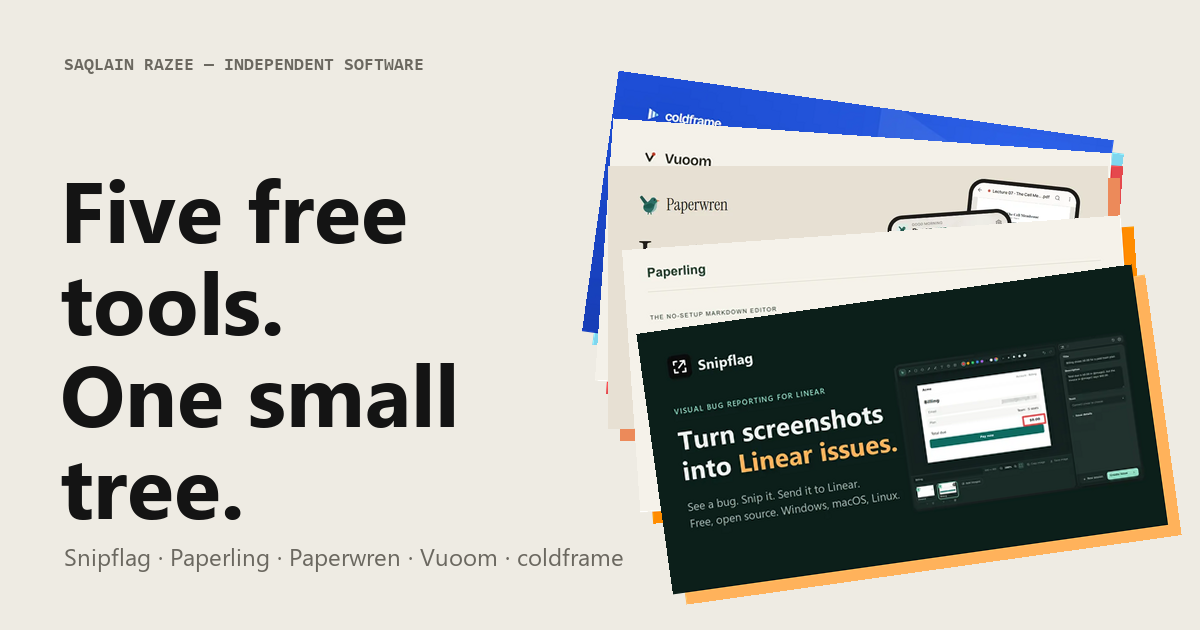
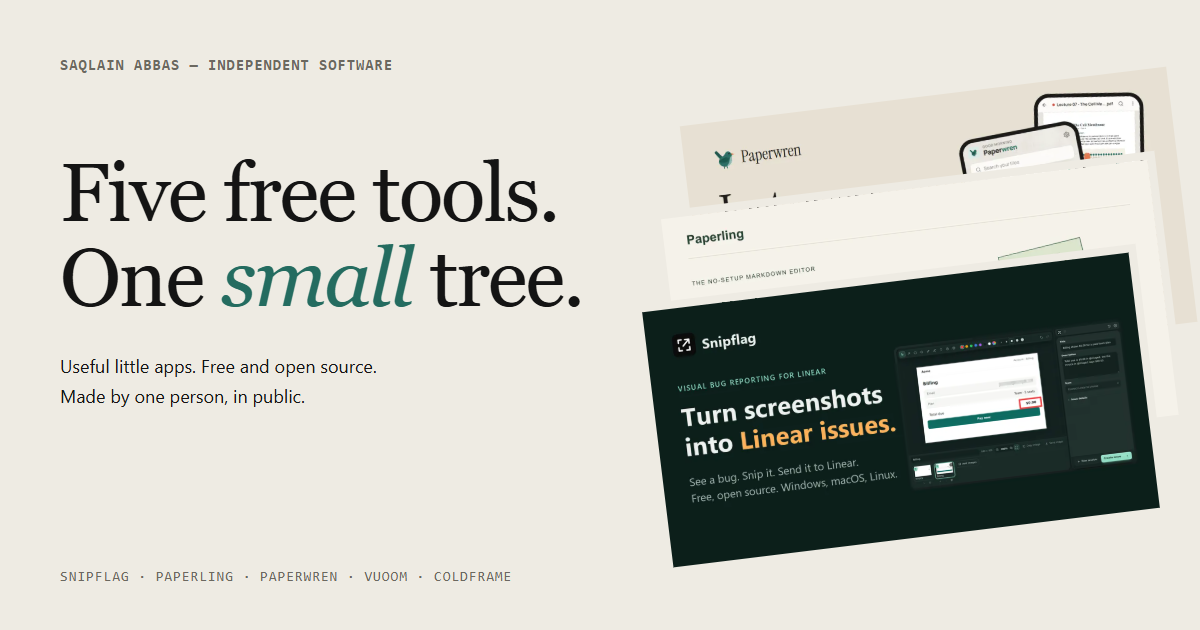
Add meadow friends, richer foliage and correct the owner name

diff --git a/index.html b/index.html
@@ -3,17 +3,17 @@
 <head>
 <meta charset="utf-8">
 <meta name="viewport" content="width=device-width, initial-scale=1, viewport-fit=cover">
-<title>Saqlain Razee: five free, open-source tools</title>
-<meta name="description" content="Snipflag, Paperling, Paperwren, Vuoom and coldframe: free, open-source apps and tools by Saqlain Razee. Plus a small tree of birds.">
+<title>Saqlain Abbas: five free, open-source tools</title>
+<meta name="description" content="Snipflag, Paperling, Paperwren, Vuoom and coldframe: free, open-source apps and tools by Saqlain Abbas. Plus a small tree of birds.">
 <link rel="canonical" href="https://razee4315.github.io/">
 <meta name="robots" content="index, follow, max-image-preview:large">
 <meta name="theme-color" content="#EEEBE3">
 <meta property="og:type" content="website">
-<meta property="og:site_name" content="Saqlain Razee">
+<meta property="og:site_name" content="Saqlain Abbas">
 <meta property="og:title" content="Five free tools. One small tree.">
-<meta property="og:description" content="Snipflag, Paperling, Paperwren, Vuoom and coldframe: free, open-source tools by Saqlain Razee.">
+<meta property="og:description" content="Snipflag, Paperling, Paperwren, Vuoom and coldframe: free, open-source tools by Saqlain Abbas.">
 <meta property="og:url" content="https://razee4315.github.io/">
-<meta property="og:image" content="https://razee4315.github.io/og.png">
+<meta property="og:image" content="https://razee4315.github.io/og.png?v=27">
 <meta property="og:image:width" content="1200">
 <meta property="og:image:height" content="630">
 <meta name="twitter:card" content="summary_large_image">
@@ -22,7 +22,7 @@
 <link rel="preconnect" href="https://fonts.gstatic.com" crossorigin>
 <link rel="preconnect" href="https://cdn.jsdelivr.net" crossorigin>
 <link rel="stylesheet" href="https://fonts.googleapis.com/css2?family=Instrument+Serif:ital@0;1&family=Bricolage+Grotesque:opsz,wght@12..96,400..800&family=JetBrains+Mono:wght@500&display=swap">
-<link rel="stylesheet" href="assets/site.css?v=25">
+<link rel="stylesheet" href="assets/site.css?v=27">
 <script>
   (function () {
     var r = document.documentElement;
@@ -34,9 +34,9 @@
 {
   "@context": "https://schema.org",
   "@graph": [
-    { "@type": "Person", "@id": "https://razee4315.github.io/#me", "name": "Saqlain Razee", "url": "https://razee4315.github.io/",
+    { "@type": "Person", "@id": "https://razee4315.github.io/#me", "name": "Saqlain Abbas", "url": "https://razee4315.github.io/",
       "sameAs": ["https://github.com/Razee4315", "https://www.linkedin.com/in/saqlainrazee/"] },
-    { "@type": "ItemList", "name": "Projects by Saqlain Razee", "itemListElement": [
+    { "@type": "ItemList", "name": "Projects by Saqlain Abbas", "itemListElement": [
       { "@type": "ListItem", "position": 1, "url": "https://razee4315.github.io/snipflag/", "name": "Snipflag" },
       { "@type": "ListItem", "position": 2, "url": "https://razee4315.github.io/Paperling/", "name": "Paperling" },
       { "@type": "ListItem", "position": 3, "url": "https://razee4315.github.io/Paperwren/", "name": "Paperwren" },
@@ -51,9 +51,9 @@
 <a class="skip" href="#catalogue">Skip to the tools</a>
 
 <header class="nav" data-nav>
-  <a class="nav-brand" href="#top" aria-label="Saqlain Razee, back to top">
+  <a class="nav-brand" href="#top" aria-label="Saqlain Abbas, back to top">
     <svg viewBox="0 0 64 64" aria-hidden="true"><path d="M27 27.5 12.6 9.6Q10.8 7.4 8.6 8.8L6.6 10.4Q4.6 12 6 14.2L19.5 33.5Z" fill="#174A44"/><path d="M29 53 27.5 59M35 53l1 6" stroke="#174A44" stroke-width="2.4" stroke-linecap="round"/><path d="M50.5 19C48 12.5 39 11 35 17 32.5 21 29 24.5 24 26.5 15.5 30 13 38 15.5 44.5 18.5 51.5 25.5 55 33 54.5 44 54 51.5 45.5 51.5 34 51.5 29.5 52.5 26 53.5 24Z" fill="#2B6E66"/><path d="M52.6 25C51.6 28 51.5 31 51.5 34 51.5 45.5 44 53.5 33 54.5 39.5 50.5 43.5 44.5 44.8 37.5 46 31.5 48.5 27 52.6 25Z" fill="#8FBCB3"/><path d="M45 34C41 27.5 29 27 21 33.5L14.5 38C23 45.5 38 45.5 45 34Z" fill="#174A44"/><path d="M51.4 19Q56 20.2 59.5 22.6 55.5 23.6 52.4 24.4Z" fill="#EC8A5A"/><circle cx="45" cy="19.5" r="2.1" fill="#0E2B27"/></svg>
-    <span>Saqlain Razee</span>
+    <span>Saqlain Abbas</span>
   </a>
   <nav class="nav-links mono" aria-label="Projects">
     <a href="#snipflag" data-nav-link>Snipflag</a>
@@ -72,7 +72,7 @@
   <section class="hero" id="top" aria-labelledby="hero-title">
     <div class="hero-type">
       <div class="hero-heading">
-      <p class="eyebrow mono" data-hero-fade>Saqlain Razee · independent software</p>
+      <p class="eyebrow mono" data-hero-fade>Saqlain Abbas · independent software</p>
       <h1 id="hero-title" class="h1" data-split data-perch="text">Five free tools.<br>One <em>small</em> tree.</h1>
       </div>
       <div class="hero-details">
@@ -86,10 +86,22 @@
 
     <figure class="scene" data-scene>
       <div class="scene-art">
-        <svg class="scene-svg" viewBox="0 80 1600 826" preserveAspectRatio="xMidYMax meet" role="img" aria-labelledby="scene-title">
+        <svg class="scene-svg" viewBox="0 80 1600 826" preserveAspectRatio="xMidYMax meet" role="button" tabindex="0" aria-label="Shake the tree to release falling leaves" data-no-bird>
           <title id="scene-title">A small tree with a hanging birdhouse. Birds you invite fly around the page.</title>
           <g data-world></g>
         </svg>
+        <button class="grass-animal rabbit" type="button" data-rabbit data-no-bird aria-label="Say hello to the rabbit and watch it hop">
+          <svg viewBox="0 0 180 110" aria-hidden="true"><g class="rabbit-hop"><g class="rabbit-body">
+            <circle cx="43" cy="79" r="10" fill="#E8E0D1"/><ellipse cx="75" cy="81" rx="31" ry="22" fill="#B3A18A"/>
+            <path d="M60 91Q67 66 82 78Q96 96 81 101H58" fill="#97836C"/><ellipse cx="75" cy="100" rx="17" ry="4" fill="#C7B7A0"/>
+            <path d="M97 77Q111 80 108 99H98L92 84" fill="#C7B7A0"/>
+            <g class="rabbit-ears"><path d="M101 56Q80 13 90 11Q104 12 111 55" fill="#B3A18A"/><path d="M108 55Q110 9 120 13Q128 23 117 58" fill="#C7B7A0"/><path d="M100 43Q90 19 93 19L106 47M114 46Q114 20 119 21L117 48" stroke="#CA9D95" stroke-width="4" fill="none" stroke-linecap="round"/></g>
+            <path d="M93 57Q113 44 124 61L133 72Q134 84 116 84Q93 85 91 72Z" fill="#C7B7A0"/>
+            <ellipse cx="120" cy="76" rx="12" ry="7" fill="#E8E0D1"/><circle cx="116" cy="63" r="3.1" fill="#30291F"/><circle cx="117" cy="62" r=".9" fill="#FFF"/>
+            <path d="M129 72l5 2-4 3Z" fill="#A9766C"/><path d="M127 78l-2 2m-1-5 12-2m-12 6 12 3" stroke="#796857" stroke-width=".8" fill="none"/>
+          </g></g></svg>
+        </button>
+        <button class="grass-animal chicks" type="button" data-chicks data-no-bird aria-label="Bring the black and yellow chicks together to share hearts"><svg viewBox="0 0 220 100" aria-hidden="true"><g class="chick-walk chick-black"><g transform="translate(40 68)"><path d="M-9 18l-2 8m20-8 2 8m-12 0h-5m17 0h5" fill="none" stroke="#BA8040" stroke-width="2" stroke-linecap="round"/><path d="M-15 3Q-23 3-24-2l10 2" fill="var(--chick-wing)"/><ellipse cy="7" rx="19" ry="17" fill="var(--chick-body)"/><circle cx="10" cy="-8" r="14" fill="var(--chick-body)"/><path d="M-12 3Q2-5 6 8Q-4 18-12 3" fill="var(--chick-wing)"/><path d="M22-8l8 4-8 3Z" fill="#D88C41"/><circle cx="15" cy="-11" r="2.2" fill="var(--chick-eye)"/><circle cx="15.6" cy="-11.7" r=".7" fill="#FFF"/><path d="M3-21l3-5 2 5 4-3 1 4" stroke="var(--chick-wing)" stroke-width="2" fill="none" stroke-linecap="round"/></g></g><g class="chick-walk chick-yellow"><g transform="translate(180 68) scale(-1 1)"><path d="M-9 18l-2 8m20-8 2 8m-12 0h-5m17 0h5" fill="none" stroke="#BA8040" stroke-width="2" stroke-linecap="round"/><path d="M-15 3Q-23 3-24-2l10 2" fill="var(--chick-wing)"/><ellipse cy="7" rx="19" ry="17" fill="var(--chick-body)"/><circle cx="10" cy="-8" r="14" fill="var(--chick-body)"/><path d="M-12 3Q2-5 6 8Q-4 18-12 3" fill="var(--chick-wing)"/><path d="M22-8l8 4-8 3Z" fill="#D88C41"/><circle cx="15" cy="-11" r="2.2" fill="var(--chick-eye)"/><circle cx="15.6" cy="-11.7" r=".7" fill="#FFF"/><path d="M3-21l3-5 2 5 4-3 1 4" stroke="var(--chick-wing)" stroke-width="2" fill="none" stroke-linecap="round"/></g></g><g class="chick-hearts" fill="#BB6A60"><path d="M100 35C83 25 91 16 100 23C109 16 117 25 100 35Z"/><path d="M123 22C111 15 117 8 123 13C129 8 135 15 123 22Z"/></g></svg></button>
         <svg class="meadow" viewBox="0 0 1600 80" preserveAspectRatio="none" aria-hidden="true"><g data-ground></g></svg>
         <div class="drift" aria-hidden="true"><i></i><i></i><i></i><i></i></div>
       </div>
@@ -173,17 +185,17 @@
     <div class="roost-intro"><p class="mono label">The evening roost</p><h2>A place to land.</h2><p>Ten little nests. A hello from every bird that comes home.</p></div>
     <div class="roost" aria-label="Bird nests spell HELLO RAZEE as birds land"><div class="roost-cell"><span class="roost-letter" aria-hidden="true">H</span><div class="nest" data-nest="0"><svg viewBox="0 0 120 44" aria-hidden="true"><path d="M8 12Q60 2 112 12Q106 38 60 40Q14 38 8 12Z" fill="#A58B66"/><ellipse cx="60" cy="12" rx="49" ry="9" fill="#514537"/><g fill="none" stroke="#D0B58D" stroke-width="2" stroke-linecap="round"><path d="M12 17Q62 33 106 16M18 25Q55 39 100 24M28 33Q60 42 87 33M9 12l24 19m-10-20 28 26m-7-24 25 24m15-23L59 38m38-25L77 35m32-20L92 29"/></g><path d="M7 10l17 4m76-2 14-5M18 32l16 3" stroke="#796348" stroke-width="2" fill="none"/></svg></div></div><div class="roost-cell"><span class="roost-letter" aria-hidden="true">E</span><div class="nest" data-nest="1"><svg viewBox="0 0 120 44" aria-hidden="true"><path d="M8 12Q60 2 112 12Q106 38 60 40Q14 38 8 12Z" fill="#A58B66"/><ellipse cx="60" cy="12" rx="49" ry="9" fill="#514537"/><g fill="none" stroke="#D0B58D" stroke-width="2" stroke-linecap="round"><path d="M12 17Q62 33 106 16M18 25Q55 39 100 24M28 33Q60 42 87 33M9 12l24 19m-10-20 28 26m-7-24 25 24m15-23L59 38m38-25L77 35m32-20L92 29"/></g><path d="M7 10l17 4m76-2 14-5M18 32l16 3" stroke="#796348" stroke-width="2" fill="none"/></svg></div></div><div class="roost-cell"><span class="roost-letter" aria-hidden="true">L</span><div class="nest" data-nest="2"><svg viewBox="0 0 120 44" aria-hidden="true"><path d="M8 12Q60 2 112 12Q106 38 60 40Q14 38 8 12Z" fill="#A58B66"/><ellipse cx="60" cy="12" rx="49" ry="9" fill="#514537"/><g fill="none" stroke="#D0B58D" stroke-width="2" stroke-linecap="round"><path d="M12 17Q62 33 106 16M18 25Q55 39 100 24M28 33Q60 42 87 33M9 12l24 19m-10-20 28 26m-7-24 25 24m15-23L59 38m38-25L77 35m32-20L92 29"/></g><path d="M7 10l17 4m76-2 14-5M18 32l16 3" stroke="#796348" stroke-width="2" fill="none"/></svg></div></div><div class="roost-cell"><span class="roost-letter" aria-hidden="true">L</span><div class="nest" data-nest="3"><svg viewBox="0 0 120 44" aria-hidden="true"><path d="M8 12Q60 2 112 12Q106 38 60 40Q14 38 8 12Z" fill="#A58B66"/><ellipse cx="60" cy="12" rx="49" ry="9" fill="#514537"/><g fill="none" stroke="#D0B58D" stroke-width="2" stroke-linecap="round"><path d="M12 17Q62 33 106 16M18 25Q55 39 100 24M28 33Q60 42 87 33M9 12l24 19m-10-20 28 26m-7-24 25 24m15-23L59 38m38-25L77 35m32-20L92 29"/></g><path d="M7 10l17 4m76-2 14-5M18 32l16 3" stroke="#796348" stroke-width="2" fill="none"/></svg></div></div><div class="roost-cell"><span class="roost-letter" aria-hidden="true">O</span><div class="nest" data-nest="4"><svg viewBox="0 0 120 44" aria-hidden="true"><path d="M8 12Q60 2 112 12Q106 38 60 40Q14 38 8 12Z" fill="#A58B66"/><ellipse cx="60" cy="12" rx="49" ry="9" fill="#514537"/><g fill="none" stroke="#D0B58D" stroke-width="2" stroke-linecap="round"><path d="M12 17Q62 33 106 16M18 25Q55 39 100 24M28 33Q60 42 87 33M9 12l24 19m-10-20 28 26m-7-24 25 24m15-23L59 38m38-25L77 35m32-20L92 29"/></g><path d="M7 10l17 4m76-2 14-5M18 32l16 3" stroke="#796348" stroke-width="2" fill="none"/></svg></div></div><div class="roost-cell"><span class="roost-letter" aria-hidden="true">R</span><div class="nest" data-nest="5"><svg viewBox="0 0 120 44" aria-hidden="true"><path d="M8 12Q60 2 112 12Q106 38 60 40Q14 38 8 12Z" fill="#A58B66"/><ellipse cx="60" cy="12" rx="49" ry="9" fill="#514537"/><g fill="none" stroke="#D0B58D" stroke-width="2" stroke-linecap="round"><path d="M12 17Q62 33 106 16M18 25Q55 39 100 24M28 33Q60 42 87 33M9 12l24 19m-10-20 28 26m-7-24 25 24m15-23L59 38m38-25L77 35m32-20L92 29"/></g><path d="M7 10l17 4m76-2 14-5M18 32l16 3" stroke="#796348" stroke-width="2" fill="none"/></svg></div></div><div class="roost-cell"><span class="roost-letter" aria-hidden="true">A</span><div class="nest" data-nest="6"><svg viewBox="0 0 120 44" aria-hidden="true"><path d="M8 12Q60 2 112 12Q106 38 60 40Q14 38 8 12Z" fill="#A58B66"/><ellipse cx="60" cy="12" rx="49" ry="9" fill="#514537"/><g fill="none" stroke="#D0B58D" stroke-width="2" stroke-linecap="round"><path d="M12 17Q62 33 106 16M18 25Q55 39 100 24M28 33Q60 42 87 33M9 12l24 19m-10-20 28 26m-7-24 25 24m15-23L59 38m38-25L77 35m32-20L92 29"/></g><path d="M7 10l17 4m76-2 14-5M18 32l16 3" stroke="#796348" stroke-width="2" fill="none"/></svg></div></div><div class="roost-cell"><span class="roost-letter" aria-hidden="true">Z</span><div class="nest" data-nest="7"><svg viewBox="0 0 120 44" aria-hidden="true"><path d="M8 12Q60 2 112 12Q106 38 60 40Q14 38 8 12Z" fill="#A58B66"/><ellipse cx="60" cy="12" rx="49" ry="9" fill="#514537"/><g fill="none" stroke="#D0B58D" stroke-width="2" stroke-linecap="round"><path d="M12 17Q62 33 106 16M18 25Q55 39 100 24M28 33Q60 42 87 33M9 12l24 19m-10-20 28 26m-7-24 25 24m15-23L59 38m38-25L77 35m32-20L92 29"/></g><path d="M7 10l17 4m76-2 14-5M18 32l16 3" stroke="#796348" stroke-width="2" fill="none"/></svg></div></div><div class="roost-cell"><span class="roost-letter" aria-hidden="true">E</span><div class="nest" data-nest="8"><svg viewBox="0 0 120 44" aria-hidden="true"><path d="M8 12Q60 2 112 12Q106 38 60 40Q14 38 8 12Z" fill="#A58B66"/><ellipse cx="60" cy="12" rx="49" ry="9" fill="#514537"/><g fill="none" stroke="#D0B58D" stroke-width="2" stroke-linecap="round"><path d="M12 17Q62 33 106 16M18 25Q55 39 100 24M28 33Q60 42 87 33M9 12l24 19m-10-20 28 26m-7-24 25 24m15-23L59 38m38-25L77 35m32-20L92 29"/></g><path d="M7 10l17 4m76-2 14-5M18 32l16 3" stroke="#796348" stroke-width="2" fill="none"/></svg></div></div><div class="roost-cell"><span class="roost-letter" aria-hidden="true">E</span><div class="nest" data-nest="9"><svg viewBox="0 0 120 44" aria-hidden="true"><path d="M8 12Q60 2 112 12Q106 38 60 40Q14 38 8 12Z" fill="#A58B66"/><ellipse cx="60" cy="12" rx="49" ry="9" fill="#514537"/><g fill="none" stroke="#D0B58D" stroke-width="2" stroke-linecap="round"><path d="M12 17Q62 33 106 16M18 25Q55 39 100 24M28 33Q60 42 87 33M9 12l24 19m-10-20 28 26m-7-24 25 24m15-23L59 38m38-25L77 35m32-20L92 29"/></g><path d="M7 10l17 4m76-2 14-5M18 32l16 3" stroke="#796348" stroke-width="2" fill="none"/></svg></div></div></div>
     <div class="roost-actions"><p class="mono label" data-roost-status aria-live="polite">The nests are waiting.</p><button class="btn btn-ghost" type="button" data-roost-invite>Invite a bird</button></div>
-    <div class="foot-bottom"><div><a class="foot-name" href="#top">Saqlain Razee</a><p class="label">Small tools. Built in public.</p></div><nav class="foot-links" aria-label="Elsewhere"><a href="https://github.com/Razee4315">GitHub &nearr;</a><a href="https://www.linkedin.com/in/saqlainrazee/">LinkedIn &nearr;</a><a href="#top">Back to the tree &uarr;</a></nav></div>
+    <div class="foot-bottom"><div><a class="foot-name" href="#top">Saqlain Abbas</a><p class="label">Small tools. Built in public.</p></div><nav class="foot-links" aria-label="Elsewhere"><a href="https://github.com/Razee4315">GitHub &nearr;</a><a href="https://www.linkedin.com/in/saqlainrazee/">LinkedIn &nearr;</a><a href="#top">Back to the tree &uarr;</a></nav></div>
   </div>
 </footer>
 
 <div class="sky" data-sky aria-hidden="true"></div>
 
-<script src="assets/birds.js?v=25" defer></script>
+<script src="assets/birds.js?v=27" defer></script>
 <script src="https://cdn.jsdelivr.net/npm/gsap@3.13.0/dist/gsap.min.js" defer></script>
 <script src="https://cdn.jsdelivr.net/npm/gsap@3.13.0/dist/ScrollTrigger.min.js" defer></script>
 <script src="https://cdn.jsdelivr.net/npm/gsap@3.13.0/dist/SplitText.min.js" defer></script>
 <script src="https://cdn.jsdelivr.net/npm/lenis@1.3.11/dist/lenis.min.js" defer></script>
-<script src="assets/site.js?v=25" defer></script>
+<script src="assets/site.js?v=27" defer></script>
 </body>
 </html>

diff --git a/assets/birds.js b/assets/birds.js
@@ -137,6 +137,16 @@
     foliageFor(D);
     cluster(612, 730, 190, 10, 160);
 
+    // Interior shoots fill the canopy along the limbs, not just at their tips.
+    [L1, R1, L2, R2, T].forEach(function (limb, li) {
+      foliageFor(limb);
+      [.18, .31, .46, .62, .78, .9].forEach(function (t, i) {
+        var point = bz(limb.spec.p, t), tangent = bzd(limb.spec.p, t);
+        var heading = Math.atan2(tangent.y, tangent.x) * 180 / Math.PI;
+        cluster(point.x, point.y, heading + (i % 2 ? 62 : -62), i % 3 ? 6 : 12, 90);
+      });
+    });
+
     foliage.forEach(function (f) {
       var g = el('g', { 'data-foliage': '' }, f.parent);
       el('path', { d: f.stems, fill: 'none', stroke: C.barkLight, 'stroke-width': 1.4, 'stroke-linecap': 'round' }, g);
@@ -157,9 +167,37 @@
       el('path', { d: 'M0 0C8 -9 24 -10 36 0C24 10 8 9 0 0Z', fill: source.color,
         transform: 'rotate(' + f1(source.angle) + ') scale(' + f1(source.scale) + ')' }, falling);
     }
+    var scene = svg.parentNode;
+    function sceneActive(active) { svg.classList.toggle('tree-active', active); scene.classList.toggle('scene-active', active); }
     if ('IntersectionObserver' in window) {
-      new IntersectionObserver(function (entries) { svg.classList.toggle('tree-active', entries[0].isIntersecting); }).observe(svg);
-    } else svg.classList.add('tree-active');
+      new IntersectionObserver(function (entries) { sceneActive(entries[0].isIntersecting); }).observe(svg);
+    } else sceneActive(true);
+    // Reuse a bounded set of leaves for click showers. No nodes are added per click.
+    var shower = [];
+    for (var si = 0; si < 12; si++) {
+      var origin = el('g', { 'data-leaf-burst': '' }, world), fall = el('g', { opacity: 0 }, origin);
+      var shape = el('path', { d: 'M0 0C8 -9 24 -10 36 0C24 10 8 9 0 0Z' }, fall);
+      shower.push({ origin: origin, fall: fall, shape: shape, animation: null });
+    }
+    function shakeLeaves() {
+      if (reduce) return;
+      shower.forEach(function (part, i) {
+        if (part.animation) part.animation.cancel();
+        var source = leafSources[Math.floor(rng() * leafSources.length)], drop = 920 - source.y, drift = (rng() - .5) * 180;
+        part.origin.setAttribute('transform', 'translate(' + f1(source.x) + ' ' + f1(source.y) + ')');
+        part.shape.setAttribute('fill', source.color);
+        part.shape.setAttribute('transform', 'rotate(' + f1(source.angle) + ') scale(' + f1(source.scale) + ')');
+        part.animation = part.fall.animate([
+          { opacity: 0, transform: 'translate(0,0) rotate(0deg)' },
+          { opacity: 1, transform: 'translate(0,0) rotate(0deg)', offset: .06 },
+          { opacity: 1, transform: 'translate(' + f1(drift) + 'px,' + f1(drop * .3) + 'px) rotate(70deg) scaleX(.6)', offset: .38 },
+          { opacity: .9, transform: 'translate(' + f1(-drift * .4) + 'px,' + f1(drop * .65) + 'px) rotate(-35deg)', offset: .68 },
+          { opacity: 0, transform: 'translate(' + f1(drift * .6) + 'px,' + f1(drop) + 'px) rotate(150deg)' }
+        ], { duration: 3500 + rng() * 1600, delay: i * 55, easing: 'linear' });
+      });
+    }
+    svg.addEventListener('click', shakeLeaves);
+    svg.addEventListener('keydown', function (event) { if (event.key === 'Enter' || event.key === ' ') { event.preventDefault(); shakeLeaves(); } });
 
     [.3, .56, .8].forEach(function (t) { perch(L1, t); });
     [.3, .58, .8].forEach(function (t) { perch(R1, t); });
@@ -303,7 +341,10 @@
     var birds = [], view = { left: 0, top: 0, right: 0, bottom: 0 }, off = { x: 0, y: 0 };
     var T = 0, last = 0, pointer = { x: -1e4, y: -1e4, t: -1 }, scrollDir = 0, lastScroll = 0, talkT = 4, songs = 0, gustT = 8;
     var measure = document.createElement('canvas').getContext('2d'), textCache = new Map();
-    var nests = Array.prototype.slice.call(document.querySelectorAll('[data-nest]')), homes = [], homeClock = 0;
+    var nests = Array.prototype.slice.call(document.querySelectorAll('[data-nest]')).sort(function (a, b) {
+      function owner(n) { var i = Number(n.dataset.nest); return i === 6 ? 7 : i === 7 ? 6 : i; }
+      return owner(a) - owner(b);
+    }), homes = [], homeClock = 0;
     nests.forEach(function (nest, i) { nest.parentNode.style.setProperty('--bird-color', STYLES[i].dark); });
     function occupancy(b, on) {
       var nest = nests[birds.indexOf(b)];

diff --git a/assets/site.css b/assets/site.css
@@ -87,7 +87,36 @@ h1, h2, p { margin: 0; }
 .js .scene-art { clip-path: circle(0% at 50% 100%); }
 .scene-art.grown { clip-path: circle(150% at 50% 100%); transition: clip-path 1.8s var(--ease-out); }
 .scene-art.done { clip-path: none; }
-.scene-svg { width: 100%; height: 100%; }
+.scene-svg { width: 100%; height: 100%; pointer-events: auto; cursor: pointer; }
+.scene-svg:focus-visible { outline-offset: -4px; }
+
+/* Grass residents stay separate from the ten flying birds and their nests. */
+.grass-animal { position: absolute; bottom: 8px; z-index: 1; border: 0; padding: 0; background: transparent; cursor: pointer; pointer-events: auto; -webkit-tap-highlight-color: transparent; }
+.grass-animal svg { width: 100%; overflow: visible; }
+.rabbit { left: 20%; width: clamp(100px, 12vw, 170px); }
+.chicks { right: 16%; width: clamp(160px, 17vw, 240px); }
+.meadow { z-index: 2; pointer-events: none; }
+.rabbit-ears { transform-origin: 108px 58px; animation: rabbit-listen 9s ease-in-out infinite; }
+.rabbit-body { transform-origin: 78px 100px; animation: rabbit-breathe 3s ease-in-out infinite; }
+.chick-black { --chick-body: #32302D; --chick-wing: #504B42; --chick-eye: #F8E6B0; animation: chick-left 18s linear infinite; }
+.chick-yellow { --chick-body: #F1D475; --chick-wing: #D8AD48; --chick-eye: #342C1C; animation: chick-right 18s linear infinite; }
+.chick-hearts { opacity: 0; animation: chick-love 18s linear infinite; }
+.grass-animal g { animation-play-state: paused; }
+.scene-active .grass-animal g { animation-play-state: running; }
+@keyframes rabbit-listen { 0%, 65%, 100% { transform: rotate(0); } 72% { transform: rotate(-7deg); } 80% { transform: rotate(3deg); } }
+@keyframes rabbit-breathe { 0%, 100% { transform: scaleY(1); } 50% { transform: scaleY(1.025); } }
+@keyframes chick-left {
+  0%, 12%, 100% { transform: translate(0, 0); }
+  20% { transform: translate(13px, -3px); } 28% { transform: translate(26px, 0); } 36% { transform: translate(36px, -3px); }
+  44%, 60% { transform: translate(42px, 0); } 68% { transform: translate(30px, -3px); } 76% { transform: translate(18px, 0); } 84% { transform: translate(6px, -3px); } 92% { transform: translate(0, 0); }
+}
+@keyframes chick-right {
+  0%, 12%, 100% { transform: translate(0, 0); }
+  20% { transform: translate(-13px, 0); } 28% { transform: translate(-26px, -3px); } 36% { transform: translate(-36px, 0); }
+  44%, 60% { transform: translate(-42px, 0); } 68% { transform: translate(-30px, 0); } 76% { transform: translate(-18px, -3px); } 84% { transform: translate(-6px, 0); } 92% { transform: translate(0, 0); }
+}
+@keyframes chick-love { 0%, 43%, 66%, 100% { opacity: 0; transform: translateY(0); } 48%, 58% { opacity: 1; } 65% { opacity: 0; transform: translateY(-12px); } }
+@media (max-width: 600px) { .rabbit { left: 3%; } .chicks { right: 1%; } }
 
 /* Distant flock and falling leaves: pure CSS, compositor-only. */
 .drift { position: absolute; left: 0; right: 0; top: 16%; height: 70px; pointer-events: none; overflow: hidden; }
@@ -213,4 +242,6 @@ h1, h2, p { margin: 0; }
   *, *::before, *::after { animation-duration: .01ms !important; animation-iteration-count: 1 !important; transition-duration: .01ms !important; scroll-behavior: auto !important; }
   .js .scene-art { clip-path: none; }
   .drift, .falling-leaf { display: none; }
+  .grass-animal g { animation: none !important; }
+  .chicks.is-greeting .chick-hearts { opacity: 1; }
 }

diff --git a/assets/site.js b/assets/site.js
@@ -44,6 +44,41 @@
     });
   }
 
+  /* ================= meadow residents ================= */
+  var rabbit = $('[data-rabbit]'), chicks = $('[data-chicks]');
+  var rabbitMotion = null, greetings = [], greetingTimer;
+  rabbit.addEventListener('click', function () {
+    if (reduce) { rabbit.setAttribute('aria-label', 'The rabbit says hello'); return; }
+    if (rabbitMotion) rabbitMotion.cancel();
+    rabbitMotion = $('.rabbit-hop', rabbit).animate([
+      { transform: 'translate(0,0)' }, { transform: 'translate(8px,-14px)', offset: .16 },
+      { transform: 'translate(22px,0)', offset: .3 }, { transform: 'translate(30px,-10px)', offset: .46 },
+      { transform: 'translate(40px,0)', offset: .6 }, { transform: 'translate(22px,-12px)', offset: .8 },
+      { transform: 'translate(0,0)' }
+    ], { duration: 1900, easing: 'ease-in-out' });
+  });
+  chicks.addEventListener('click', function () {
+    if (reduce) {
+      clearTimeout(greetingTimer); chicks.classList.add('is-greeting');
+      greetingTimer = setTimeout(function () { chicks.classList.remove('is-greeting'); }, 2200); return;
+    }
+    greetings.forEach(function (animation) { animation.cancel(); }); greetings = [];
+    ['.chick-black', '.chick-yellow'].forEach(function (selector, i) {
+      var node = $(selector, chicks), start = getComputedStyle(node).transform, sign = i ? -1 : 1;
+      greetings.push(node.animate([
+        { transform: start }, { transform: 'translate(' + sign * 20 + 'px,-4px)', offset: .18 },
+        { transform: 'translate(' + sign * 42 + 'px,0)', offset: .35 },
+        { transform: 'translate(' + sign * 42 + 'px,0)', offset: .65 },
+        { transform: 'translate(' + sign * 20 + 'px,-4px)', offset: .82 }, { transform: start }
+      ], { duration: 4200, easing: 'ease-in-out' }));
+    });
+    greetings.push($('.chick-hearts', chicks).animate([
+      { opacity: 0, transform: 'translateY(0)' }, { opacity: 0, offset: .3 },
+      { opacity: 1, offset: .42 }, { opacity: 1, transform: 'translateY(-6px)', offset: .62 },
+      { opacity: 0, transform: 'translateY(-16px)' }
+    ], { duration: 4200 }));
+  });
+
   /* ================= nav: hide going down, show going up; mark the project on screen ================= */
   var nav = $('[data-nav]'), lastY = window.scrollY;
   function onScroll(y) {

diff --git a/404.html b/404.html
@@ -3,7 +3,7 @@
 <head>
 <meta charset="utf-8">
 <meta name="viewport" content="width=device-width, initial-scale=1">
-<title>Page not found · Saqlain Razee</title>
+<title>Page not found · Saqlain Abbas</title>
 <meta name="description" content="This page doesn't exist. The five tools are one click away.">
 <meta name="robots" content="noindex">
 <link rel="icon" href="/favicon.svg" type="image/svg+xml">

diff --git a/docs/13-decision-log.md b/docs/13-decision-log.md
@@ -35,6 +35,13 @@
 - ADR-27 (owner request) The footer becomes a full-viewport evening roost. Ten individual nests correspond to the ten bird styles and spell HELLO RAZEE in two rows. Existing birds seek their own visible nest; a letter appears only on landing and hides on departure. The footer Invite button adds one bird at a time, up to ten. Reduced motion settles birds immediately without flight. Keep GitHub, LinkedIn and Back to the tree links. Cache version 25.
 - Validation: hero checked at 1920, 1440 and 375px with no console/page errors or horizontal overflow. Nest tests at 1440 and 375px and reduced motion at 375px verify 1, 3 and 10 birds reveal exactly 1, 3 and 10 letters; no extra birds are created. Grass roots are covered by the final ground path, foliage groups share their limb parents, and five falling leaves pause offscreen.
 
+- ADR-28 (owner request, 2026-09-28) Change the displayed owner name and page metadata to Saqlain Abbas, including the 404 title. Keep the HELLO RAZEE roost phrase and existing social/profile URLs. Swap Ink and Blossom's nest destinations so the black Ink bird owns Z.
+- ADR-29 (owner request) Add alternating interior shoots at six positions along each major canopy limb, preserving individually attached, varied leaves and batching by limb/colour. Clicking the tree or pressing Enter/Space releases a twelve-leaf shower from canopy positions; reuse a fixed pool instead of allocating DOM per click. Disable falling motion for reduced motion.
+- ADR-30 (owner request) Add one rabbit and two ground-only chicks, black and yellow, as lightweight SVG residents. The rabbit listens/breathes and hops on click; chicks meet, exchange only drawn hearts, and wander apart. Clicking the pair prompts a greeting. These residents are separate from the ten flying birds and do not spawn extra birds. Their idle animations pause offscreen; reduced motion uses a static heart response.
+- Validation: 1440px and 375px normal motion and 375px reduced motion; tree pointer/keyboard showers stay capped at twelve reusable leaves, animal clicks leave the flying-bird count unchanged, all ten nests fill, and the black bird's centre matches Z within 1px. No page errors or horizontal overflow. Owner name checked in visible copy and title.
+
+- ADR-31 Name correction includes a newly rendered 1200x630 social card using HTML/CSS and existing project screenshots, saved as og.png. Social and local asset cache version 27.
+
 ## Performance and accessibility targets
 LCP < 2.5s (h1 text), CLS < 0.1 (all media sized), INP < 200ms (no work in scroll handlers). Contrast: ink on paper ≈ 15.9:1; stone on paper ≈ 4.9:1. Keyboard: skip link, rows are links, Invite is a button, visible focus everywhere, aria-live bird count, aria-label on split headings, no hover-only content on touch.
 
